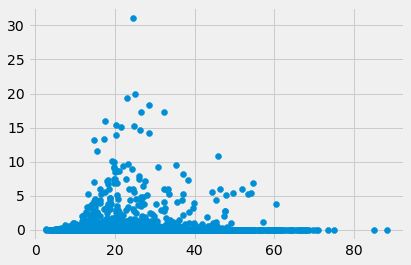
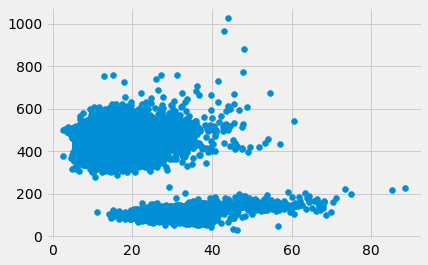
analysis#7: cleans up

Changed region(s): [[0.0, 0.0302, 0.9927, 0.966]]

diff --git a/voyager/solar_wind.md b/voyager/solar_wind.md
@@ -166,26 +166,16 @@ df.head()
 
 
 ```python
-plt.scatter("R", "W MOMENT", data=df)
+plt.scatter("R", "VT", data=df)
 ```
 
 
 
 
-    <matplotlib.collections.PathCollection at 0x1199c98d0>
+    <matplotlib.collections.PathCollection at 0x11500d490>
 
 
 
 
 ![png](solar_wind_files/solar_wind_5_1.png)
 
-
-
-```python
-
-```
-
-
-```python
-
-```
